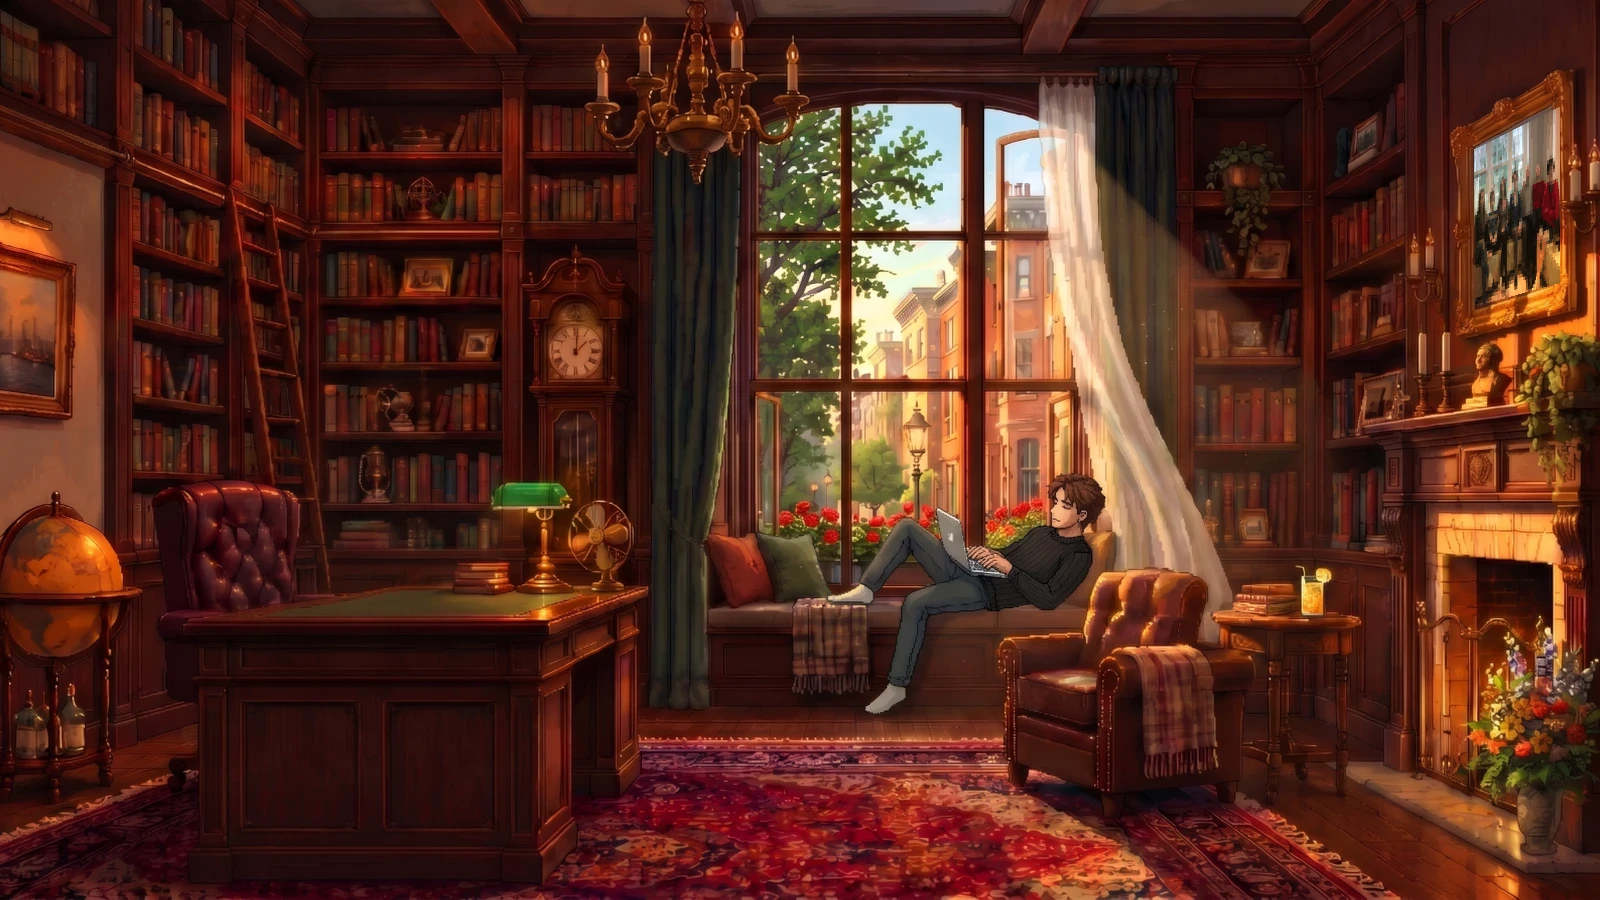
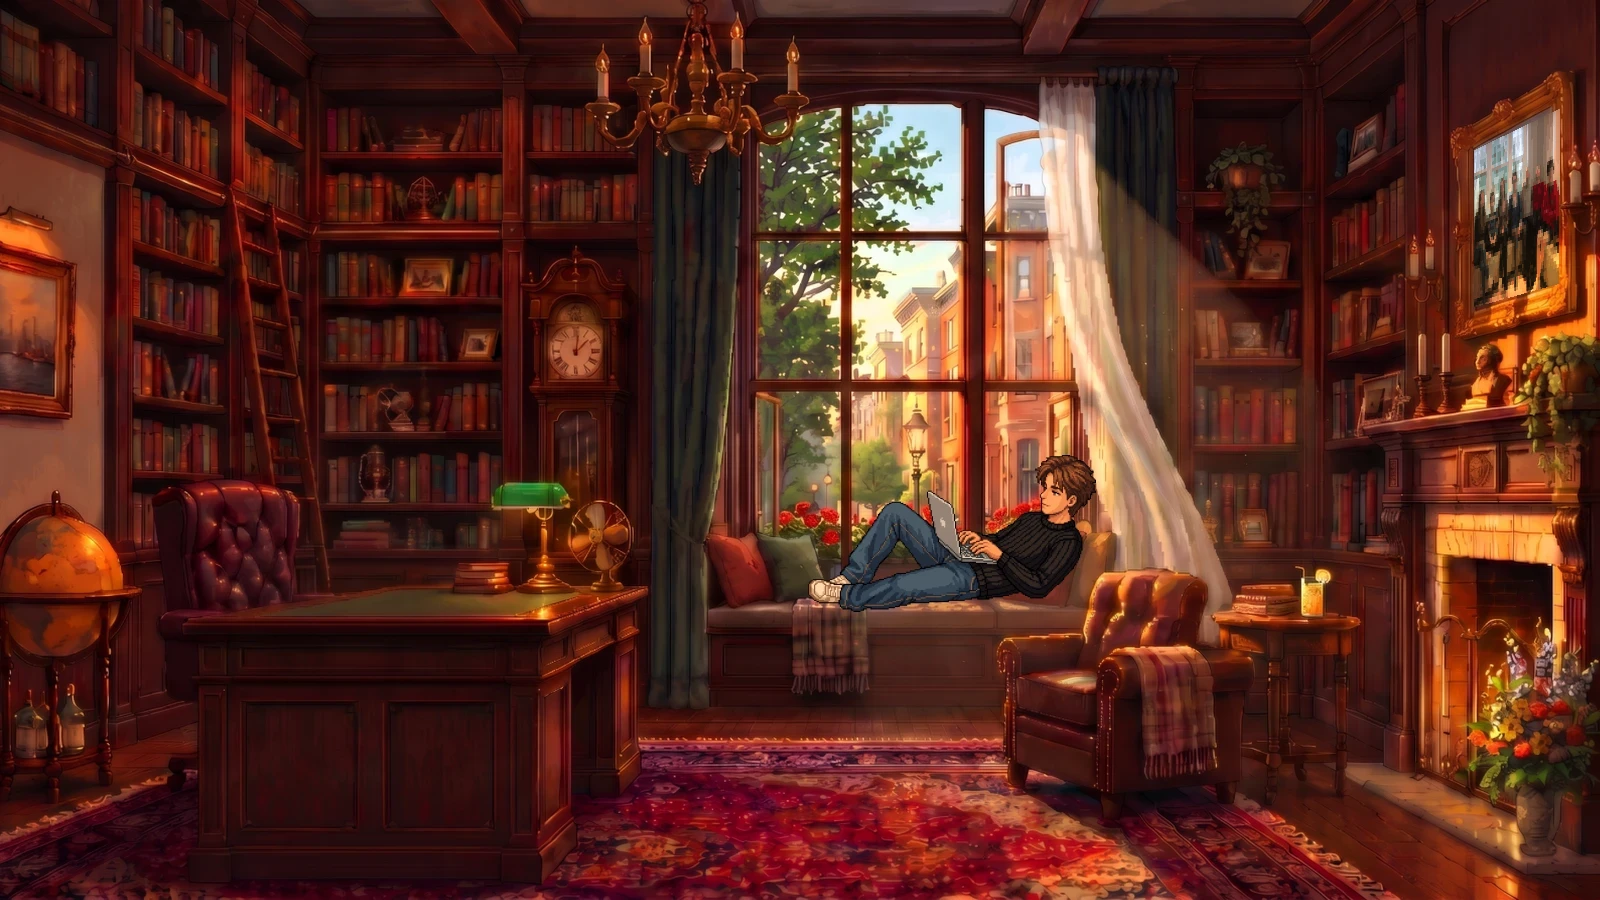
Summer: David drawn from the character sheet and overlaid on the window seat; clown's shoes white

diff --git a/src/scene.js b/src/scene.js
@@ -89,7 +89,7 @@ const DAVID_HANDS = {
   fall: [[355, 566, 398, 601], [398, 566, 434, 601]],
   winter: [[358, 566, 405, 601], [405, 566, 441, 601]],
   spring: [[355, 566, 400, 601], [400, 566, 441, 601]],
-  summer: [[964, 544, 987, 573], [987, 544, 1011, 575]], // lying on the window seat
+  summer: [[957, 529, 979, 556], [979, 529, 1002, 558]], // lying on the window seat
   halloween: [[350, 566, 380, 602], [380, 566, 410, 602]],
   birthday: [[356, 566, 398, 600], [398, 566, 432, 600]],
   july4: [[360, 568, 402, 600], [402, 568, 445, 600]],
@@ -125,7 +125,7 @@ export const HOTSPOTS = [
   { id: 'me', label: 'David', rect: [240, 405, 370, 560], scenes: SCENES.map((s) => s.id).filter((s) => s !== 'summer') },
   { id: 'globe', label: 'Places', rect: [0, 495, 140, 680] },
   { id: 'window', label: 'Window: change the scene', rect: [756, 100, 1075, 585] },
-  { id: 'me', label: 'David', rect: [860, 470, 1110, 620], scenes: ['summer'] }, // on the window seat, over the window
+  { id: 'me', label: 'David', rect: [808, 455, 1096, 612], scenes: ['summer'] }, // on the window seat, over the window
   { id: 'clock', label: 'Grandfather clock', rect: [528, 250, 624, 555] },
   { id: 'family', label: 'Family portrait', rect: [1462, 90, 1578, 322] },
   // little photo frames on the right-hand shelves (the one behind the tree's star is hidden in winter)
